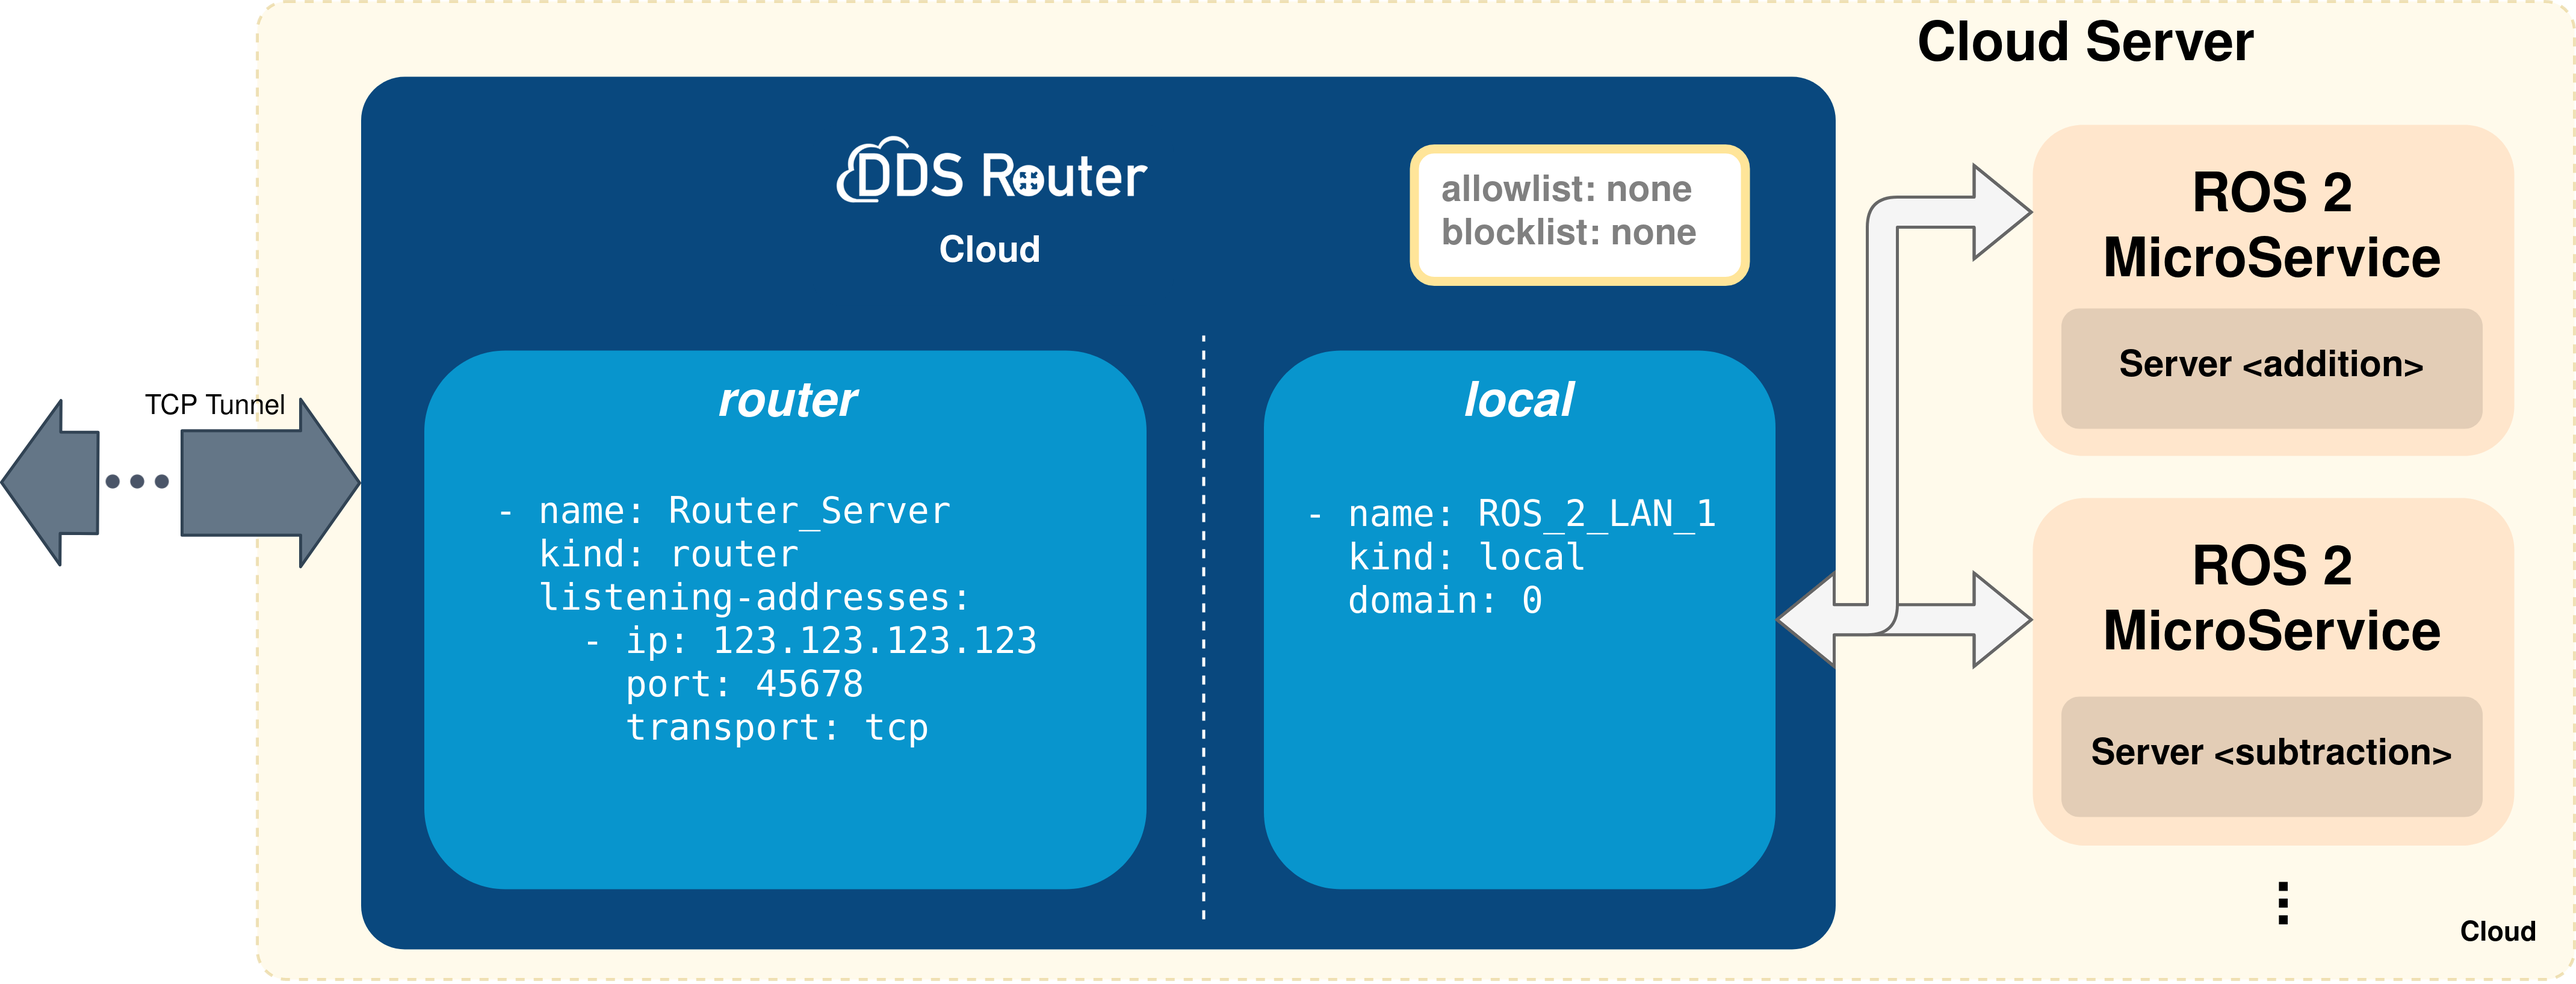
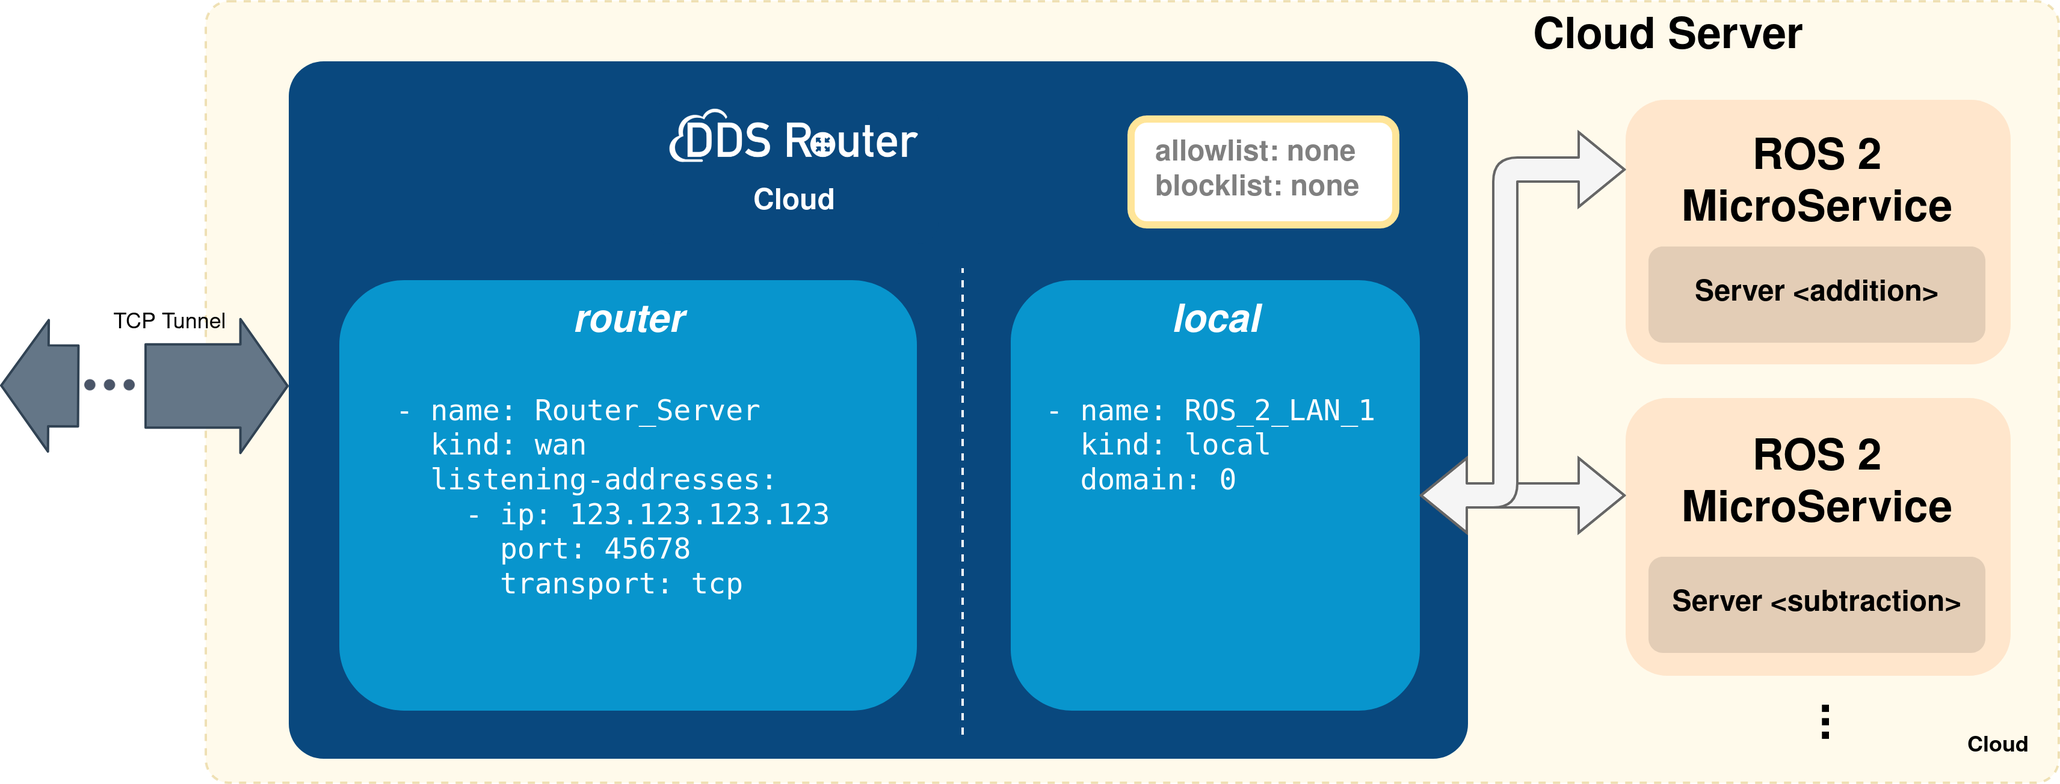
Update to configuration v3

diff --git a/docs/rst/tutorials/cloud/microservices_cloud/microservices_cloud.rst b/docs/rst/tutorials/cloud/microservices_cloud/microservices_cloud.rst
@@ -131,7 +131,7 @@ Following are the ones used in this example, however the implementation of new a
         * **Server**: subtract 2 integers get in request, and send solution in response.
           Command: ``ros2 run microservers_py server_subtraction``
 
-These files can be found in ``code/microservices`` in |VulcanexusDocsRepo| as a `Colcon <https://colcon.readthedocs.io>`_ python package.
+These files can be found at ``code/microservices`` in |VulcanexusDocsRepo| as a `Colcon <https://colcon.readthedocs.io>`_ python package.
 In order to install these applications, follow these steps:
 
 Start by creating the workspace of this application and downloading the source code:
@@ -196,10 +196,10 @@ Next, the most relevant aspects of this configuration file are explained.
 
 The ``participants`` are the interfaces of the DDS Router to communicate with other networks. In this case, we have two participants:
 
-    *   ``local``: this is a simple participant that communicates with all ROS 2 nodes it finds.
+    *   ``ROS_2_LAN_1``: this is a simple participant that communicates with all ROS 2 nodes it finds.
         For more information about this participant please refer to the `Simple Participant section <https://eprosima-dds-router.readthedocs.io/en/latest/rst/user_manual/participants/simple.html#user-manual-participants-simple>`_ of the DDS Router documentation.
 
-    *   ``router``: it is a participant designed for the communication between two *DDS Routers*.
+    *   ``Router_Client``: it is a participant designed for the communication between two *DDS Routers*.
         It uses the |InitialPeersFastDdsDocs| to establish a point-to-point communication between two DDS entities, two *DDS Routers* in this case.
 
     For the DDS Router Edge, a connection address shall be defined which must be the same as the one exposed by the Cloud Server.
@@ -281,11 +281,6 @@ This configuration will depend on your network router, but it should be similar 
 .. figure:: /rst/figures/tutorials/cloud/router_settings.png
    :align: center
 
-.. warning::
-
-    Due to a current limitation of DDS Router, the external port and internal port must match.
-    Stay tuned for new versions of DDS Router that are intended to address this limitation.
-
 Configure the DDS Router Cloud
 ''''''''''''''''''''''''''''''
 
@@ -295,12 +290,12 @@ The DDS Router Cloud configuration file is quite similar to the DDS Router Edge 
 
     .. tab:: WAN
 
-        .. literalinclude:: /resources/tutorials/cloud/wan_edge_cloud/dds_router_cloud_wan.yaml
+        .. literalinclude:: /resources/tutorials/cloud/microservices_cloud/dds_router_cloud_wan.yaml
             :language: yaml
 
     .. tab:: LAN
 
-        .. literalinclude:: /resources/tutorials/cloud/wan_edge_cloud/dds_router_cloud_lan.yaml
+        .. literalinclude:: /resources/tutorials/cloud/microservices_cloud/dds_router_cloud_lan.yaml
             :language: yaml
 
         .. note::
@@ -311,13 +306,8 @@ The DDS Router Cloud configuration file is quite similar to the DDS Router Edge 
 In this case there are also two participants, two communication interfaces for the DDS Router.
 The first one communicates the DDS Router with any ROS 2 node, while the second one enables to establish a communication channel with another DDS Router.
 
-Even so there are some differences in the second participant that are worth mentioning:
-
-#.  The ``id`` of this participant is different from the previous one, ``1`` in this case.
-    This is because, as mentioned above, the ids of this type of participant must be unique in the entire DDS Router network.
-
-#.  This participant sets a listening address (``listening-addresses``), rather than a connection address.
-    This is because it is the participant that waits for incoming communications since it has this network address exposed and accessible from the Internet.
+Although quite similar to the WAN participant in the DDS Router Edge instance, notice that this participant sets a listening address (``listening-addresses``), rather than a connection address.
+This is because it is the participant that waits for incoming communications since it has this network address exposed and accessible from the Internet.
 
 To finish, as done in the previous steps, setup the Vulcanexus environment sourcing the `setup.bash` file and run the DDS Router Cloud with the above configuration.
 
